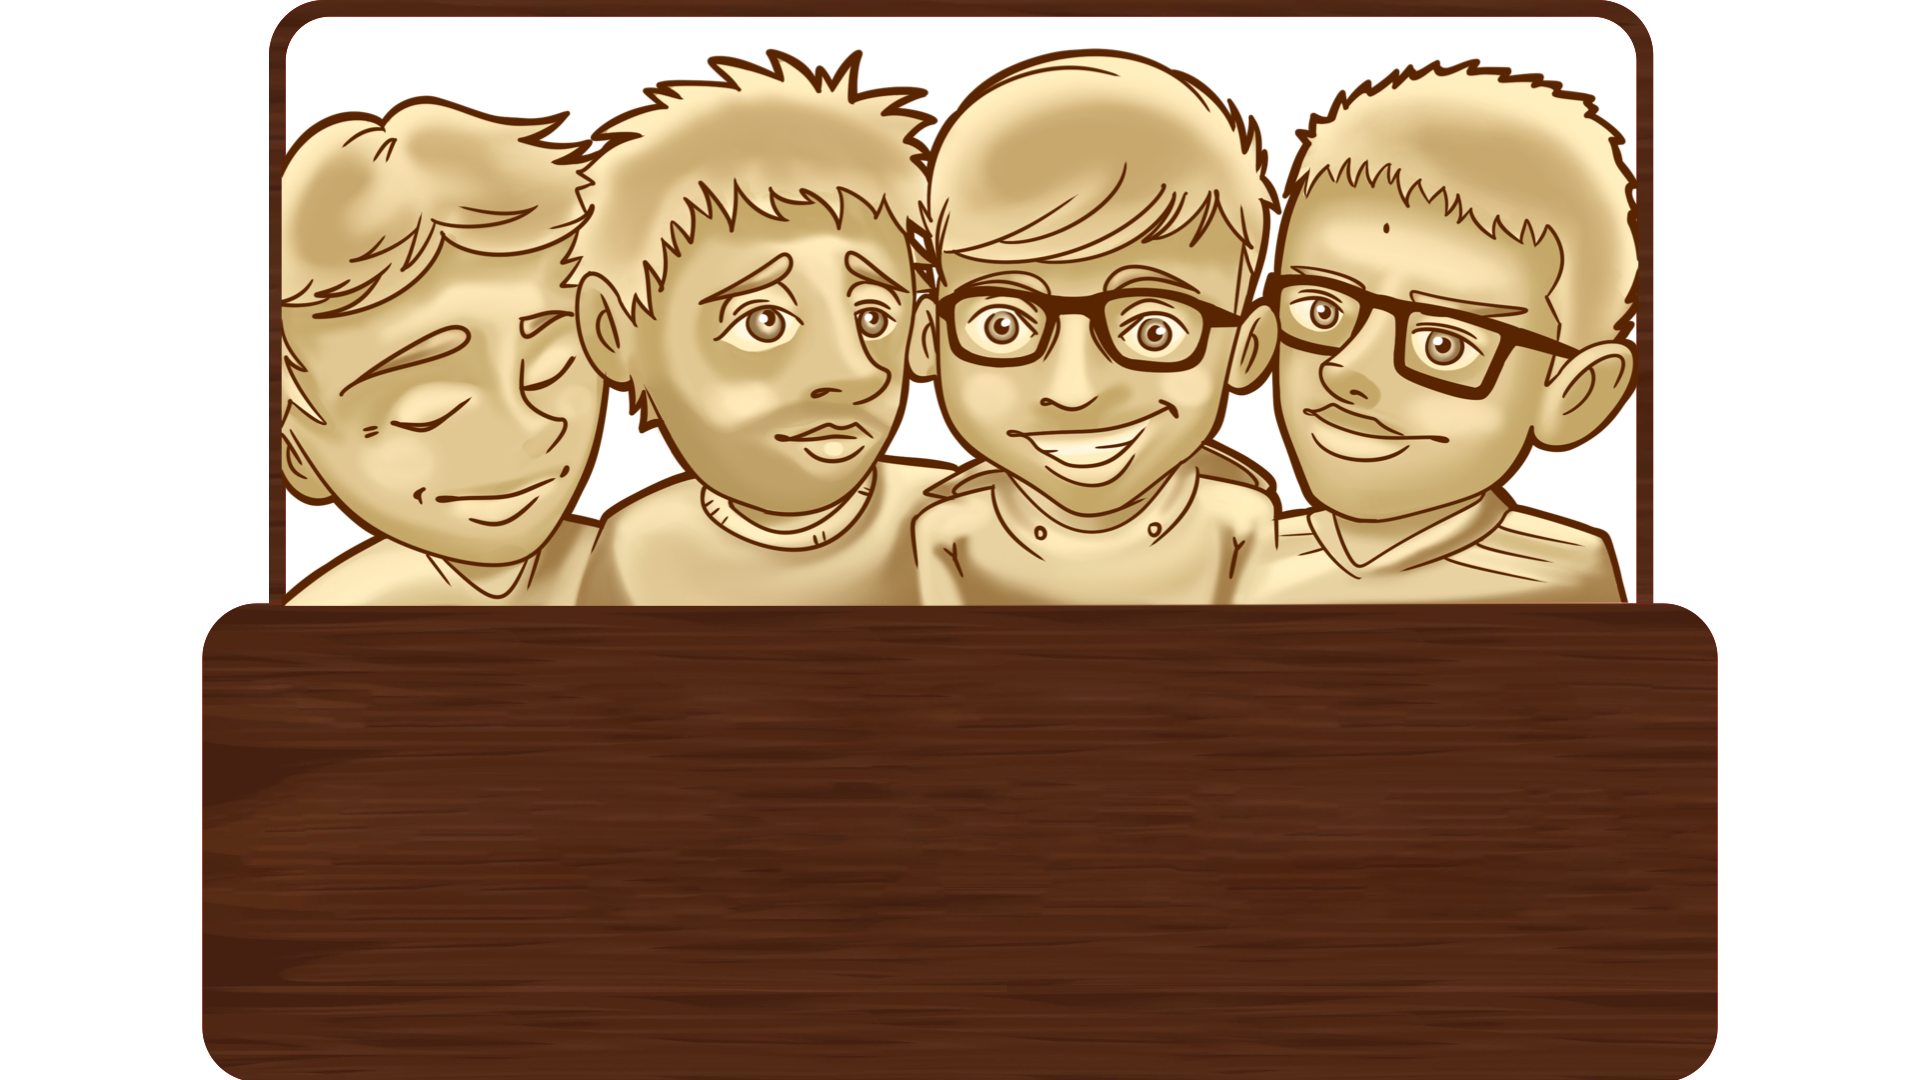
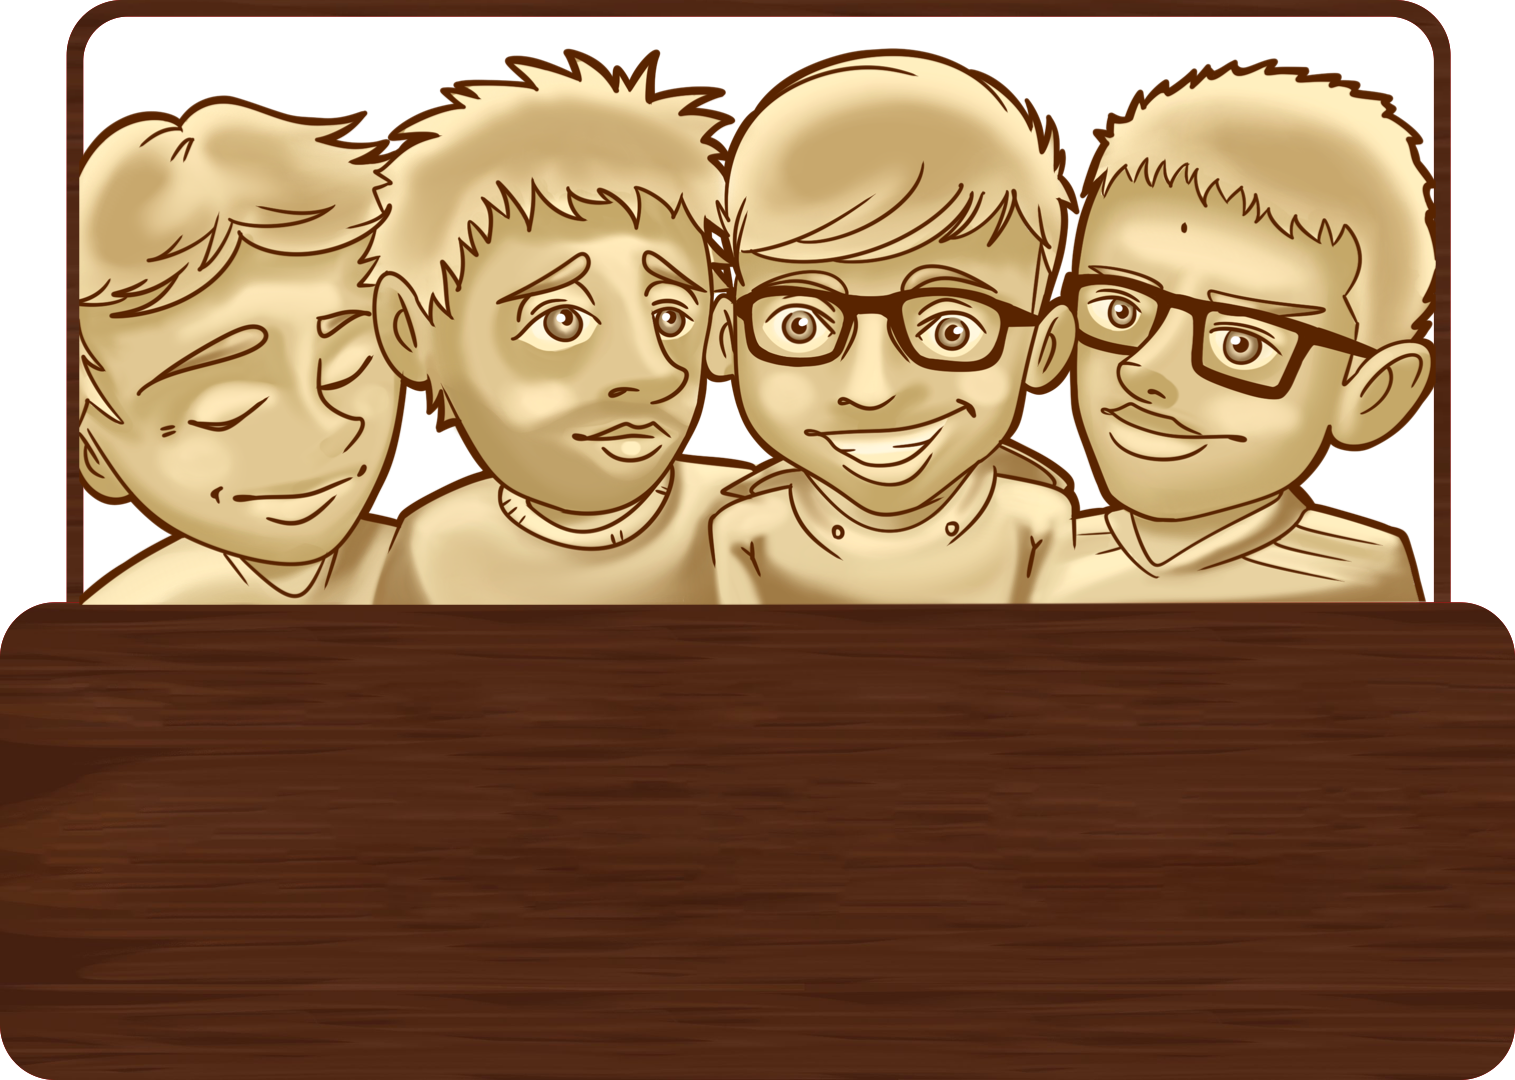
resized teamPicture, correctly implemented EndGamePane now showing sorted players by score only when endGame is set to true, now disabling all the other children forbidding game continuation

diff --git a/PSP031-client/src/main/java/it/polimi/ingsw/client/javafx/EndGamePane.java b/PSP031-client/src/main/java/it/polimi/ingsw/client/javafx/EndGamePane.java
@@ -2,63 +2,81 @@ package it.polimi.ingsw.client.javafx;
 
 import it.polimi.ingsw.model.PlayerView;
 
+import javafx.geometry.Insets;
 import javafx.geometry.Pos;
 import javafx.scene.control.Button;
 import javafx.scene.control.Label;
 import javafx.scene.image.Image;
 import javafx.scene.image.ImageView;
-import javafx.scene.layout.HBox;
-import javafx.scene.layout.StackPane;
-import javafx.scene.layout.VBox;
+import javafx.scene.layout.*;
+import javafx.scene.paint.Color;
+import javafx.scene.text.TextAlignment;
 
 import java.util.List;
 
 public class EndGamePane extends StackPane {
-    private final ImageView teamPicture;
+    private final AnchorPane scoringBackground;
     private final VBox rankings;
     private final Button newGame;
     private final Button quit;
 
     public EndGamePane(List<? extends PlayerView> sortedPlayers) {
-        this.teamPicture = new ImageView(new Image(FxResources.getResourceAsStream("fa/teamPicture.png")));
+        var teamPicture = new ImageView(new Image(FxResources.getResourceAsStream("fa/teamPicture.png")));
         teamPicture.setPreserveRatio(true);
         teamPicture.fitWidthProperty().bind(widthProperty());
         teamPicture.fitHeightProperty().bind(heightProperty());
         this.getChildren().add(teamPicture);
 
+        this.scoringBackground = new AnchorPane();
+        scoringBackground.backgroundProperty().bind(widthProperty().map(width -> new Background(new BackgroundFill(
+                Color.LIGHTSEAGREEN,
+                new CornerRadii(Math.min(10, 10 * (width.doubleValue() / (getWidth() - 400)))),
+                new Insets(0)))));
+        this.getChildren().add(scoringBackground);
+
         this.rankings = new VBox();
-        rankings.setSpacing(5);
+        rankings.setSpacing(12);
         for (PlayerView p : sortedPlayers) {
             HBox hBox = new HBox();
+            hBox.setSpacing(15);
             Label nick = new Label(p.getNick());
             Label score = new Label(p.score().get().toString());
+            hBox.backgroundProperty().bind(widthProperty().map(width -> new Background(new BackgroundFill(
+                    Color.WHITE,
+                    new CornerRadii(Math.min(5, 5 * (width.doubleValue() / 210d))),
+                    new Insets(-2)))));
             hBox.getChildren().add(nick);
             hBox.getChildren().add(score);
+            hBox.setAlignment(Pos.CENTER);
             rankings.getChildren().add(hBox);
         }
-        HBox hBox = new HBox();
-        hBox.setSpacing(40);
-        this.newGame = new Button("Start new game");
-        this.quit = new Button("Quit");
-        hBox.getChildren().add(newGame);
-        hBox.getChildren().add(quit);
+        rankings.setAlignment(Pos.CENTER);
+        getChildren().add(rankings);
 
-        rankings.setAlignment(Pos.BOTTOM_RIGHT);
-        rankings.getChildren().add(hBox);
-        this.getChildren().add(rankings);
+        this.newGame = new Button("Start new game");
+        newGame.setTextAlignment(TextAlignment.CENTER);
+        newGame.backgroundProperty().bind(widthProperty().map(width -> new Background(new BackgroundFill(
+                Color.LIGHTSEAGREEN,
+                new CornerRadii(Math.min(10, 10 * (width.doubleValue() / 350))),
+                new Insets(0)))));
+        this.quit = new Button("Quit");
+        quit.setTextAlignment(TextAlignment.CENTER);
+        quit.backgroundProperty().bind(widthProperty().map(width -> new Background(new BackgroundFill(
+                Color.INDIANRED,
+                new CornerRadii(Math.min(10, 10 * (width.doubleValue() / 350))),
+                new Insets(0)))));
+        this.getChildren().add(newGame);
+        this.getChildren().add(quit);
     }
 
-    //@Override
-    //protected void layoutChildren() {
-    //    super.layoutChildren();
-    //    final double scale = Math.min(getWidth() / 1515, getHeight() / 1080d);
-    //    final double border = 200 * scale;
-    //    final double width = 1400d * scale;
-    //    final double height = 400 * scale;
-    //
-    //    this.teamPicture.resizeRelocate(border * scale, 0, 1500, 1080);
-    //    this.rankings.resizeRelocate(border * scale, 650 * scale, width * scale, height * scale);
-    //    this.newGame.resizeRelocate(getWidth() - border * scale, 660 * scale, 300 * scale, 70 * scale);
-    //    this.quit.resizeRelocate(border * scale, 660 * scale, 300 * scale, 70 * scale);
-    //}
+    @Override
+    protected void layoutChildren() {
+        super.layoutChildren();
+        final double scale = Math.min(getWidth() / 1515, getHeight() / 1080);
+        scoringBackground.resizeRelocate(200 * scale, 650 * scale, getWidth() - 400 * scale, getHeight() - 800 * scale);
+        rankings.resizeRelocate((200 + 100) * scale, (650 + 20) * scale, getWidth() - (400 + 200) * scale,
+                getHeight() - (800 + 40) * scale);
+        newGame.resizeRelocate(getWidth() - (200 + 350) * scale, 970 * scale, 350 * scale, 70 * scale);
+        quit.resizeRelocate(200 * scale, 970 * scale, 250 * scale, 70 * scale);
+    }
 }

diff --git a/PSP031-client/src/main/java/it/polimi/ingsw/client/javafx/GamePane.java b/PSP031-client/src/main/java/it/polimi/ingsw/client/javafx/GamePane.java
@@ -26,6 +26,7 @@ import javafx.scene.paint.Color;
 import javafx.scene.shape.Circle;
 
 import java.util.ArrayList;
+import java.util.Comparator;
 import java.util.concurrent.ExecutorService;
 import java.util.concurrent.Executors;
 import java.util.concurrent.ThreadFactory;
@@ -51,8 +52,6 @@ public class GamePane extends AnchorPane {
     private final DialogVbox notCurrentTurnMessage;
     private final DialogVbox suspendedGameMessage;
 
-    private final EndGamePane endGamePane;
-
     private final ObjectProperty<Consumer<@Nullable Throwable>> onDisconnect = new SimpleObjectProperty<>();
 
     private final ObjectProperty<Boolean> suspended = new SimpleObjectProperty<>(this, "suspended");
@@ -77,8 +76,6 @@ public class GamePane extends AnchorPane {
         notCurrentTurnMessage.setVisible(false);
         this.suspendedGameMessage = new DialogVbox(DialogVbox.DISCONNECTED);
         suspendedGameMessage.setVisible(false);
-        this.endGamePane = new EndGamePane(game.getPlayers());
-        this.endGamePane.setVisible(false);
 
         getChildren()
                 .add(this.thePlayerShelfie = new PlayerShelfieComponent(game.thePlayer()));
@@ -121,25 +118,31 @@ public class GamePane extends AnchorPane {
 
             } else {
                 suspendedGameMessage.setVisible(false);
+                //restore all the children ( setDisable = true )
                 for (Node n : getChildren()) {
-                    if (!n.equals(suspendedGameMessage)) {
-                        n.setDisable(false);
-                        n.setOpacity(1);
-                    }
+                    n.setDisable(false);
+                    n.setOpacity(1);
                 }
-                //this.setDisable(false);
             }
         }));
+
         //added endGame Listener
         this.endGame.bind(FxProperties.toFxProperty("endGame", this, game.endGame()));
         endGame.addListener(((observable, oldValue, newValue) -> {
             if (newValue) {
+                //disable all the nodes
                 for (Node n : getChildren()) {
-                    //if (!n.equals(/*TODO: insert node for end game*/)) {
-                    //    n.setDisable(true);
-                    //    n.setOpacity(0.5);
-                    //}
+                    n.setDisable(true);
+                    n.setOpacity(0.5);
                 }
+                var sortedPlayers = game.getPlayers().stream()
+                        .sorted(Comparator.comparing((PlayerView p) -> p.score().get())).toList();
+                var endGamePane = new EndGamePane(sortedPlayers);
+                final double scale = Math.min(getWidth() / 1040d, getHeight() / 585d);
+                endGamePane.resizeRelocate((getWidth() - 690 * scale) / 2, (getHeight() - 490 * scale) / 2, 690 * scale,
+                        490 * scale);
+                endGamePane.toFront();
+                this.getChildren().add(endGamePane);
             }
         }));
 
@@ -227,10 +230,8 @@ public class GamePane extends AnchorPane {
 
         this.notCurrentTurnMessage.toFront();
         this.suspendedGameMessage.toFront();
-        this.endGamePane.toFront();
         getChildren().add(this.notCurrentTurnMessage);
         getChildren().add(this.suspendedGameMessage);
-        getChildren().add(this.endGamePane);
     }
 
     @Override
@@ -265,7 +266,6 @@ public class GamePane extends AnchorPane {
         this.player3Shelfie.resizeRelocate(842.0 * scale, 392.0 * scale, 182.0 * scale, 194.0 * scale);
         this.notCurrentTurnMessage.resizeRelocate((370.0 + 115.0) * scale, 115.0 * scale, 230 * scale, 230.0 * scale);
         this.suspendedGameMessage.resizeRelocate((370.0 + 115.0) * scale, 115.0 * scale, 230 * scale, 230.0 * scale);
-        this.endGamePane.resizeRelocate(20 * scale, 10 * scale, 960 * scale, 540 * scale);
         final var btnSize = 45 * scale;
         final var newMsgSize = 15 * scale;
         final var chatPaneWidth = 200.0 * scale;
